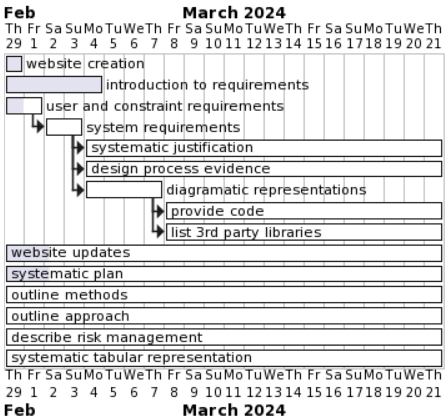
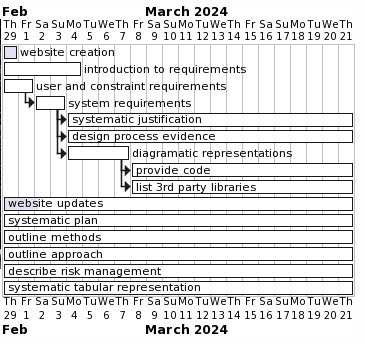
Add 2nd Gantt Chart

diff --git a/gantt-charts.html b/gantt-charts.html
@@ -14,9 +14,15 @@
         </div>
         <h1 id="index-title">Weekly Gantt Charts</h1>
         <div class="content-container">
-            <img src="images\gantt-charts\29_02.png"/>
+            <img class="gantt-chart-img" src="images\gantt-charts\29_02.png"/>
             <p class="weekly-header">29/02/24</p>
             <p class="weekly-subheader">(End of Week 3)</p>
+        </div>
+		
+		<div class="content-container">
+            <img class="gantt-chart-img" src="images\gantt-charts\07_03.png"/>
+            <p class="weekly-header">07/03/24</p>
+            <p class="weekly-subheader">(End of Week 4)</p>
         </div>
     </body>
 </html>

diff --git a/style.css b/style.css
@@ -87,3 +87,6 @@ p {
 .weekly-subheader {
     line-height: 0.5em;
 }
+.gantt-chart-img {
+	width: 400px;
+}
